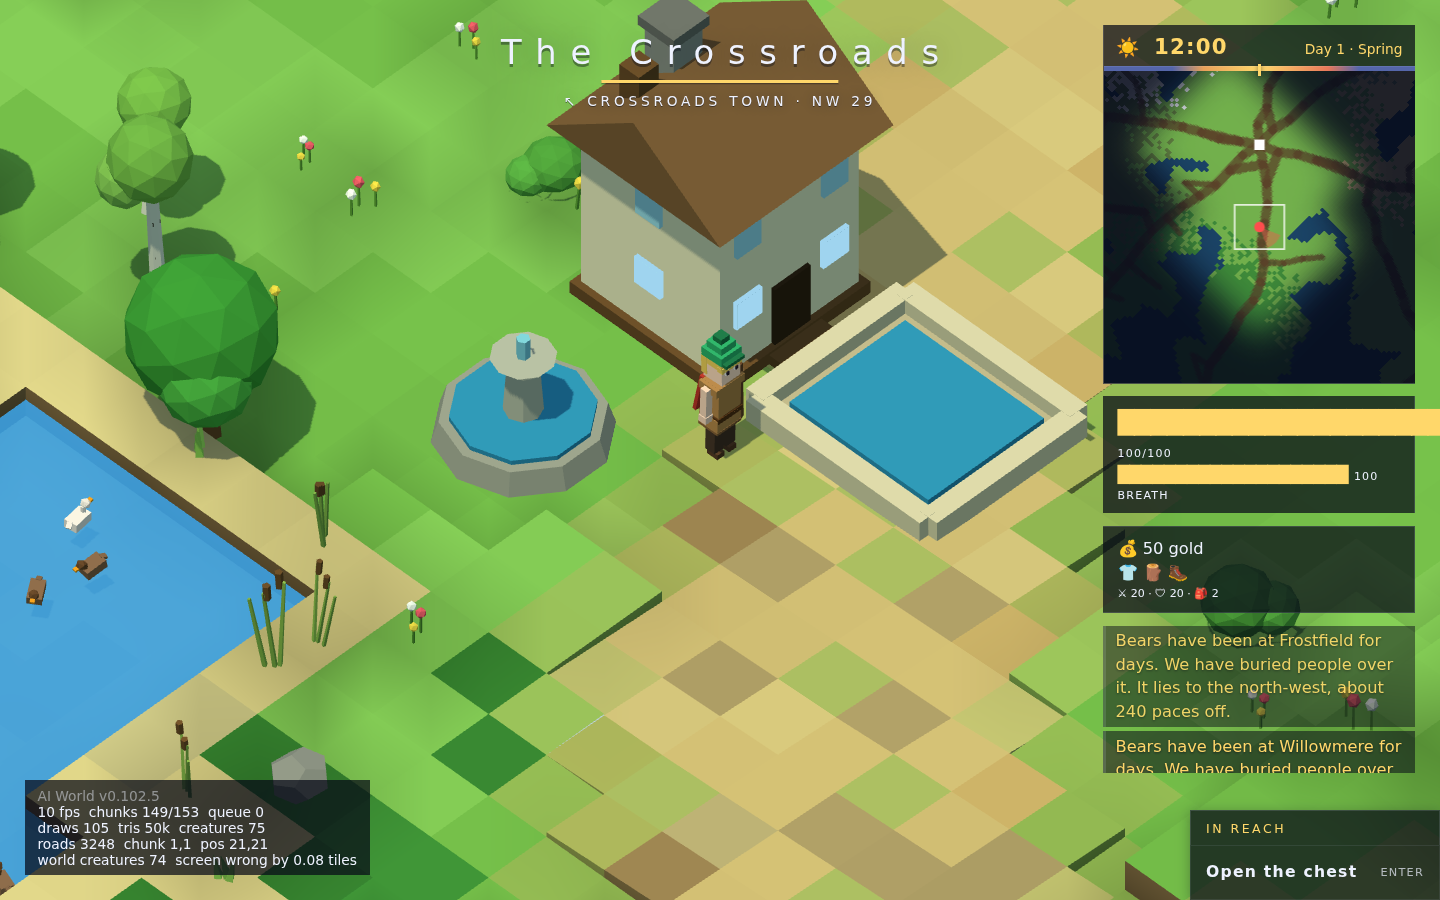
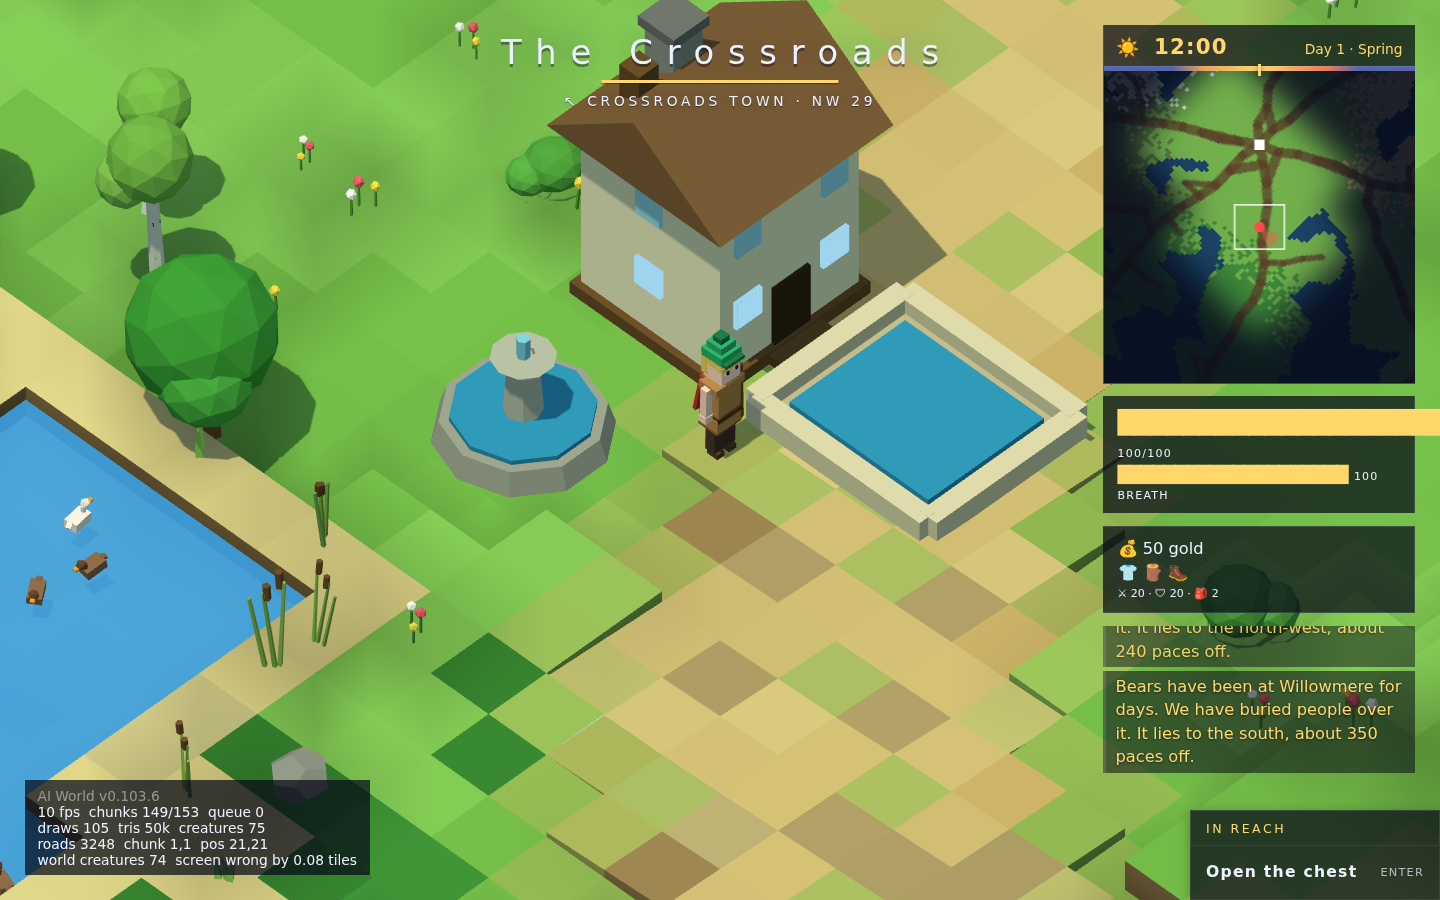
The message log stays on its newest line when its lines arrive before the HUD shows (#542)
* The message log stays on its newest line when its lines arrive before the HUD shows

Chat.line measured whether the log was at its bottom when each line
arrived. A log under a hidden HUD has no layout, so every line measured as
"at the bottom", the scroll that should pin it there did nothing, and the
log came up at scrollTop 0 showing its oldest lines. Whether that happened
depended on when the news arrived against when the HUD appeared, which is
why two captures of one commit disagreed about estate.png's message panel.

The log now keeps whether it is following as state that only a real scroll
changes, and re-pins when it gets a layout back (ResizeObserver) or a font
arrives and grows its lines.

Closes #535

* The log follows its newest line unless a reader scrolls it, and sea's reference shows that

Keeping `following` from every scroll event still let the browser's own
scrolls (a box coming back from display:none, a reflow under a late font)
stop the log following: estate's second capture still came up showing its
oldest lines. Only a wheel, a pointer or a touch on the log now counts as
a reader; their scroll decides, and scrollend ends it. Each line is
watched for size as well as the log's box, so a line that grows after it
arrived is followed.

docs/screenshots/sea.png was photographed in the old state, the log half
scrolled; both captures of this change agree on the log at its newest
line, and that capture is the reference now.

Refs #535
[…]

Changed region(s): [[0.75, 0.6844, 0.9688, 0.8711]]

diff --git a/src/ui/chat.ts b/src/ui/chat.ts
@@ -20,6 +20,25 @@ export class Chat {
   private readonly input = $<HTMLInputElement>('chatInput');
   private typing = false;
   private asConsole = false;
+  /**
+   * Whether the log is following its newest line, kept rather than measured when a line arrives.
+   *
+   * Measuring it then was wrong whenever the log had no layout: lines that arrive while the HUD is
+   * still hidden all measure as "at the bottom" of a box with no height, the scroll that should
+   * pin them there does nothing, and the log comes up showing its oldest lines. Whether it did
+   * depended on when the news arrived against when the HUD appeared, which is why two captures of
+   * the same commit disagreed about the message panel (#535).
+   *
+   * And only somebody scrolling changes it. A scroll event alone is not somebody: the browser fires
+   * them for its own reasons too — a box coming back from display:none, a line reflowing under a
+   * late font — and one of those landing short of the bottom stopped the log following as surely
+   * as a reader would have.
+   */
+  private following = true;
+  /** Whether the scroll now under way is somebody's hand on the log rather than the page's own. */
+  private handled = false;
+  /** Watches the log's box and every line in it, so a line that grows after it arrived is followed. */
+  private readonly sizes = typeof ResizeObserver !== 'undefined' ? new ResizeObserver(() => this.pin()) : null;
 
   /** Called with a finished line when the player presses Enter. */
   onSend: ((text: string) => void) | null = null;
@@ -29,6 +48,17 @@ export class Chat {
     // the pointer leaves the log — and, worse, a page that ever gets the event scrolls the world
     // behind a console somebody is reading.
     this.panel.addEventListener('wheel', (e) => e.stopPropagation());
+    // a wheel, a finger or a drag on the scrollbar is a reader; whatever it leaves is where they
+    // want to be, and the end of the scroll is where to ask
+    for (const hand of ['wheel', 'pointerdown', 'touchstart'] as const) {
+      this.log.addEventListener(hand, () => { this.handled = true; }, { passive: true });
+    }
+    const read = () => { if (this.handled && this.log.clientHeight > 0) this.following = this.atBottom; };
+    this.log.addEventListener('scroll', read);
+    this.log.addEventListener('scrollend', () => { read(); this.handled = false; });
+    // and when the log gets a layout back, a line grows, or a font arrives, it goes where it was
+    this.sizes?.observe(this.log);
+    document.fonts?.addEventListener?.('loadingdone', () => this.pin());
     this.input.addEventListener('keydown', (e) => {
       e.stopPropagation();
       if (e.key === 'Enter') {
@@ -70,7 +100,8 @@ export class Chat {
     this.input.classList.add('show');
     this.input.placeholder = asConsole ? 'Say something, ? for help, / for a command' : 'Say something, then Enter';
     this.input.focus();
-    this.log.scrollTop = this.log.scrollHeight;
+    this.following = true;
+    this.pin();
     // the key that opened the box would otherwise land in it
     window.setTimeout(() => { this.input.value = ''; }, 0);
   }
@@ -108,22 +139,33 @@ export class Chat {
   /**
    * Whether the log is showing its newest line.
    *
-   * A line arriving pulls the log down to the bottom, which is right until somebody has scrolled up
-   * to read what was said earlier — then it is the box snatching itself out of their hands. Within
-   * a couple of pixels, because a scroll position is a float and lands a hair short.
+   * Read when the log scrolls, to decide `following`. A line arriving pulls the log down to the
+   * bottom, which is right until somebody has scrolled up to read what was said earlier — then it
+   * is the box snatching itself out of their hands. Within a couple of pixels, because a scroll
+   * position is a float and lands a hair short.
    */
   private get atBottom(): boolean {
     return this.log.scrollHeight - this.log.scrollTop - this.log.clientHeight < 4;
   }
 
+  /** Put the log on its newest line, if that is where it is being kept. */
+  private pin(): void {
+    if (this.following) this.log.scrollTop = this.log.scrollHeight;
+  }
+
   line(text: string, kind: 'chat' | 'sys' = 'chat'): void {
-    const following = this.atBottom;
     const el = document.createElement('div');
     if (kind === 'sys') el.className = 'sys';
     el.textContent = text;
     this.log.appendChild(el);
-    while (this.log.childElementCount > MAX_LINES) this.log.firstElementChild?.remove();
-    if (following) this.log.scrollTop = this.log.scrollHeight;
+    this.sizes?.observe(el);
+    while (this.log.childElementCount > MAX_LINES) {
+      const oldest = this.log.firstElementChild;
+      if (!oldest) break;
+      this.sizes?.unobserve(oldest);
+      oldest.remove();
+    }
     this.show();
+    this.pin();
   }
 }
